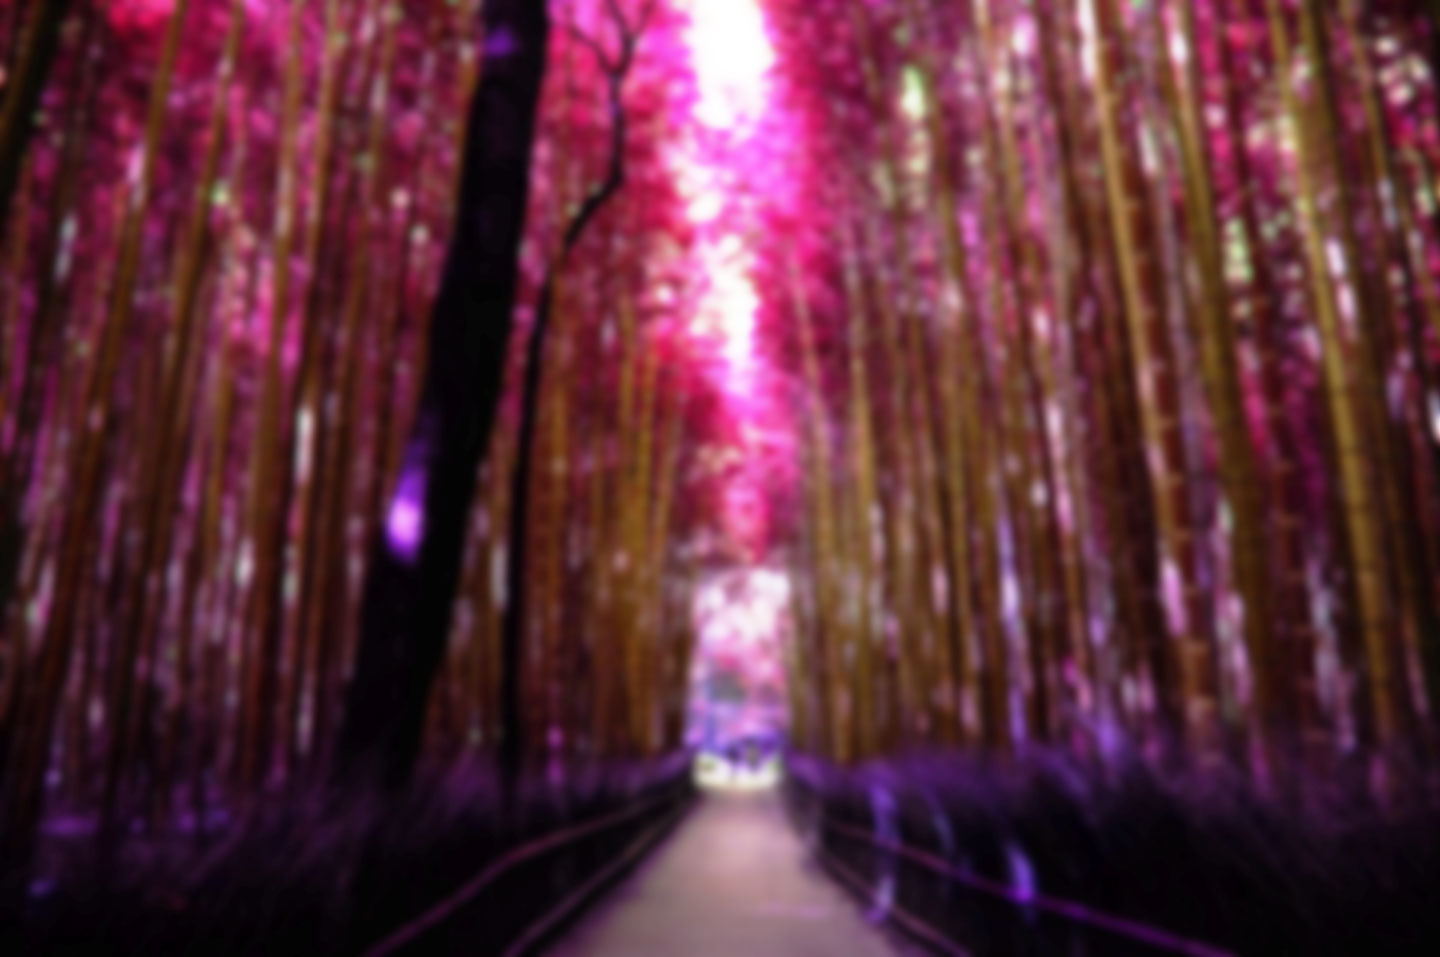
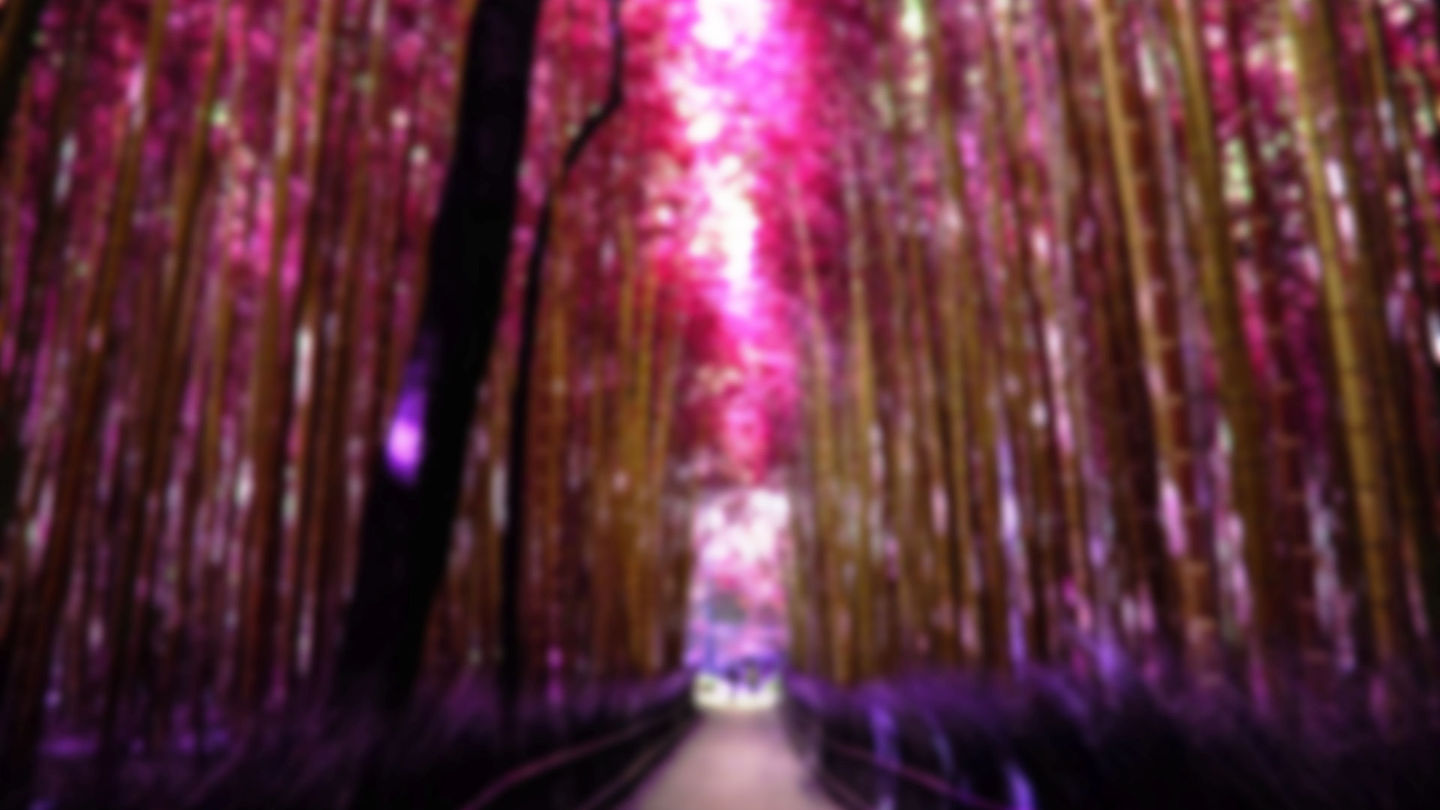
16/9 sample background, update css and readme to reflect

diff --git a/lion.scss b/lion.scss
@@ -31,7 +31,7 @@ body {
 	font-family:$regularfont;
     height:100%;
 }
-@media (max-aspect-ratio:4608/3702) {
+@media (max-aspect-ratio:16/9) {
     body {
         background-size:auto 100%;
     }

diff --git a/lion.css b/lion.css
@@ -20,7 +20,7 @@ body {
   height: 100%;
 }
 
-@media (max-aspect-ratio: 4608 / 3702) {
+@media (max-aspect-ratio: 16 / 9) {
   body {
     background-size: auto 100%;
   }

diff --git a/readme.md b/readme.md
@@ -16,7 +16,8 @@ Also restyles parts of the following extensions for niceness/responsiveness:
 `require_once "$IP/skins/Pixelion/Pixelion.php";`
 
 ## Usage notes
-* This theme looks pretty good with a background image! A sample (derived from a public-domain photo) is provided as bg.jpg
+* This theme looks pretty good with a background image! A sample (derived from a public-domain photo) is provided as bg.jpg. \
+  Images should be 16:9 aspect ratio to work with the default CSS, otherwise you will have to adjust `max-aspect-ratio` in the media queries.
 * If you omit the background it will fall back to a solid pink colour by default
 * Most background images/colours of your choice will work, but avoid anything too close to white as it will render the page action links invisible or hard to read
 * Logos: unlike Monobook and Vector which are designed for a square-ish logo, this isn't! Try something like a 5:1 width:height ratio for good results. And make it as big as you like, it'll be scaled down for display
